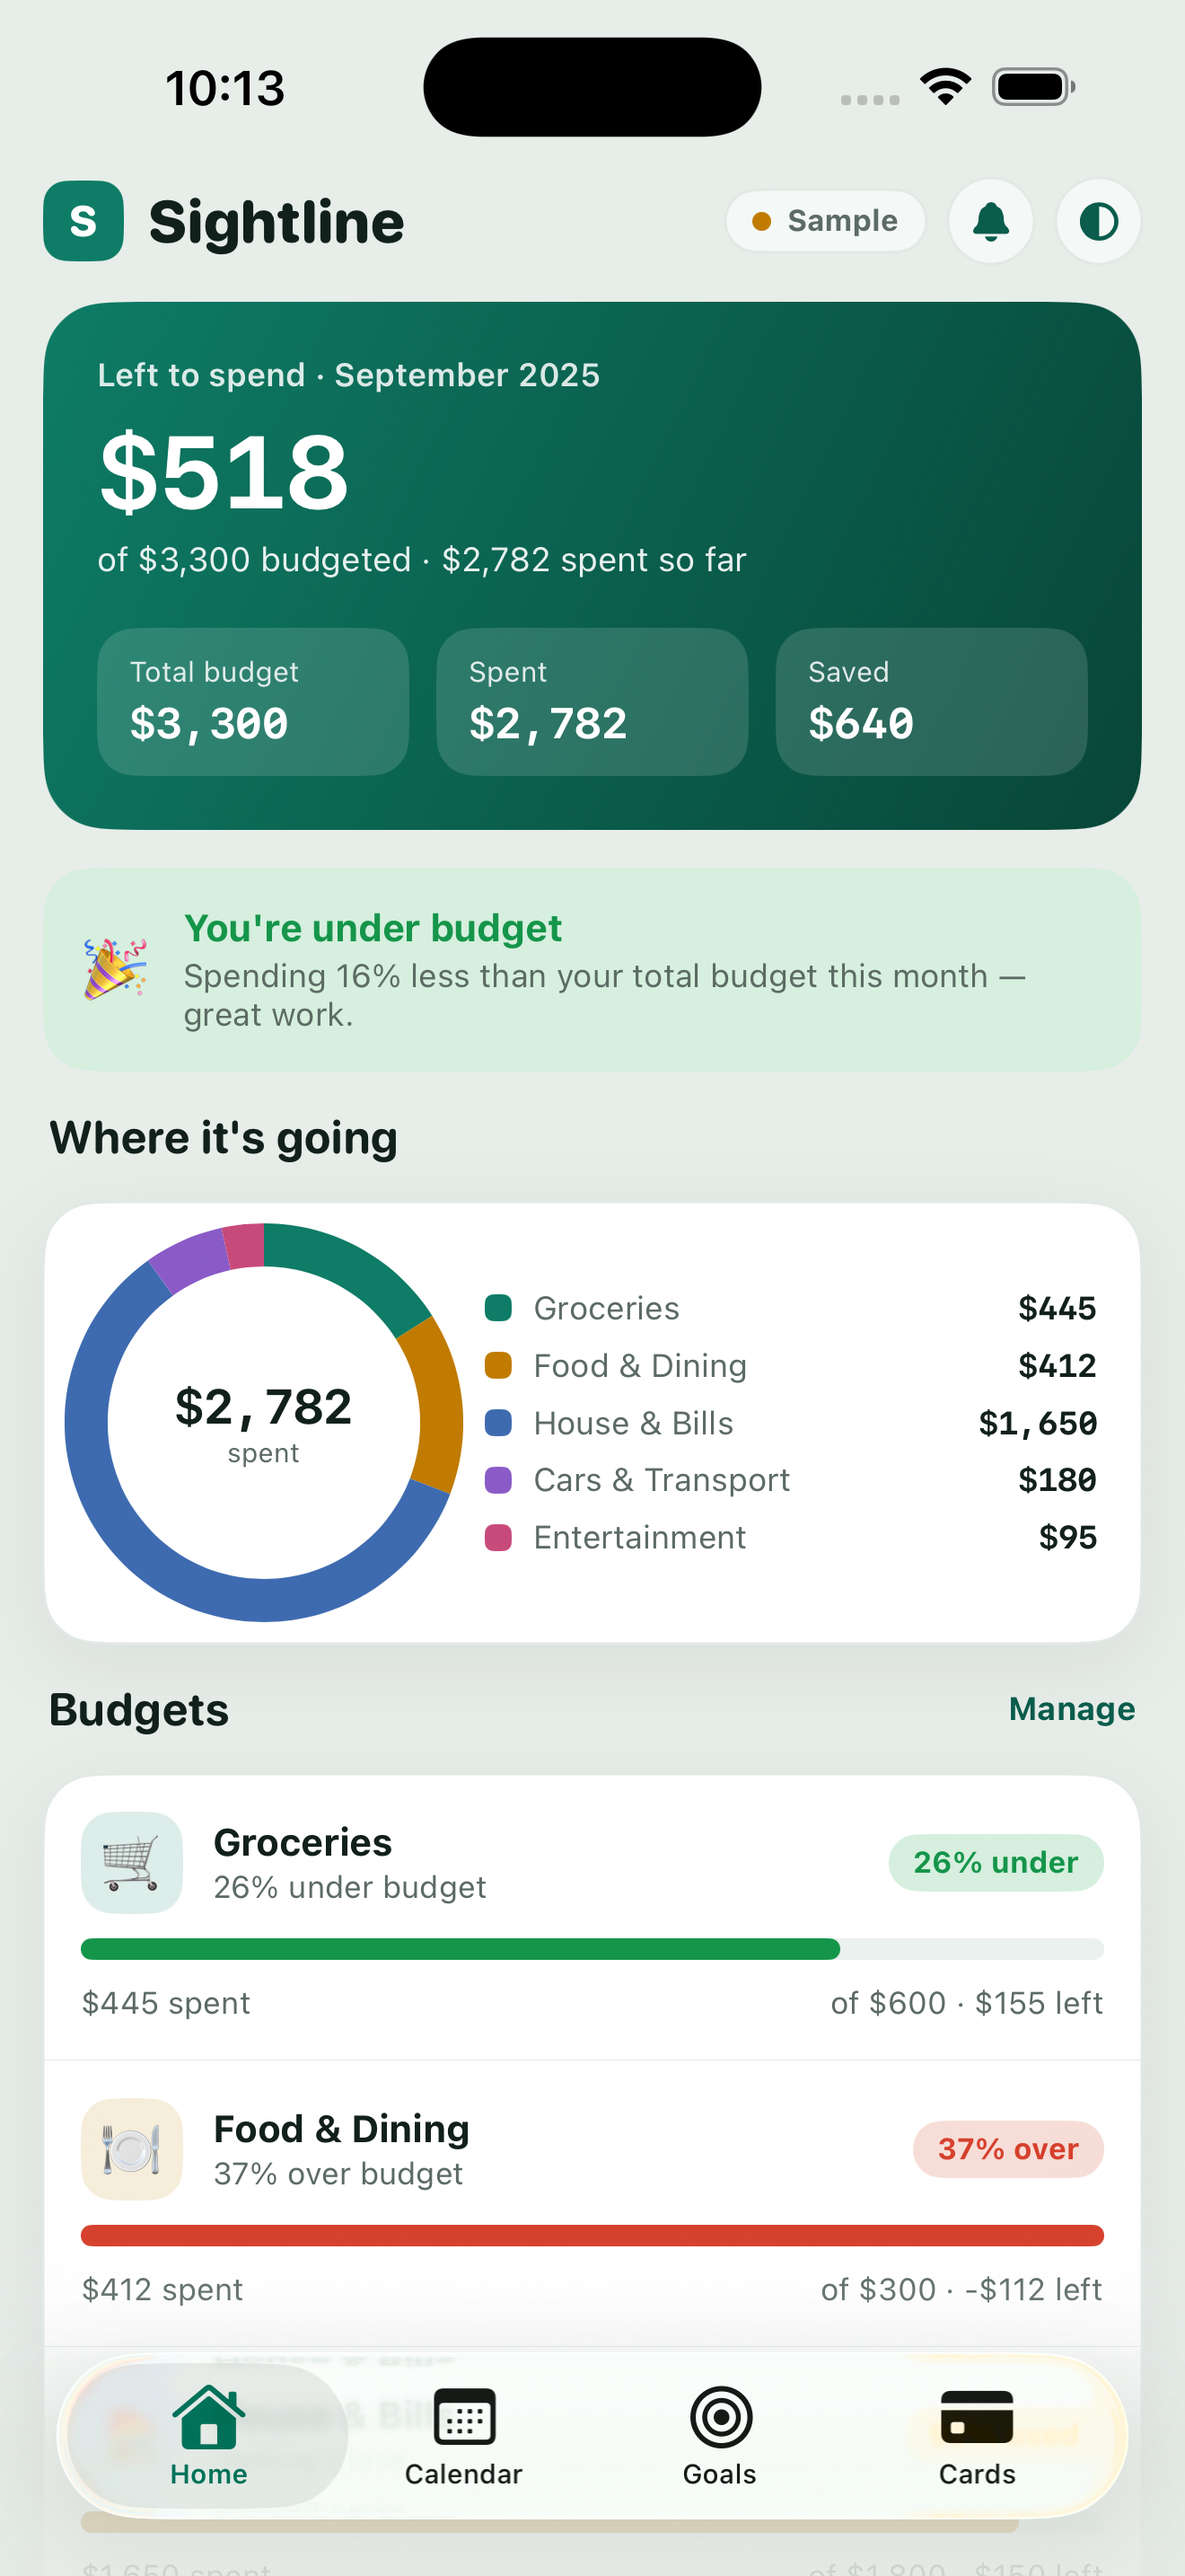
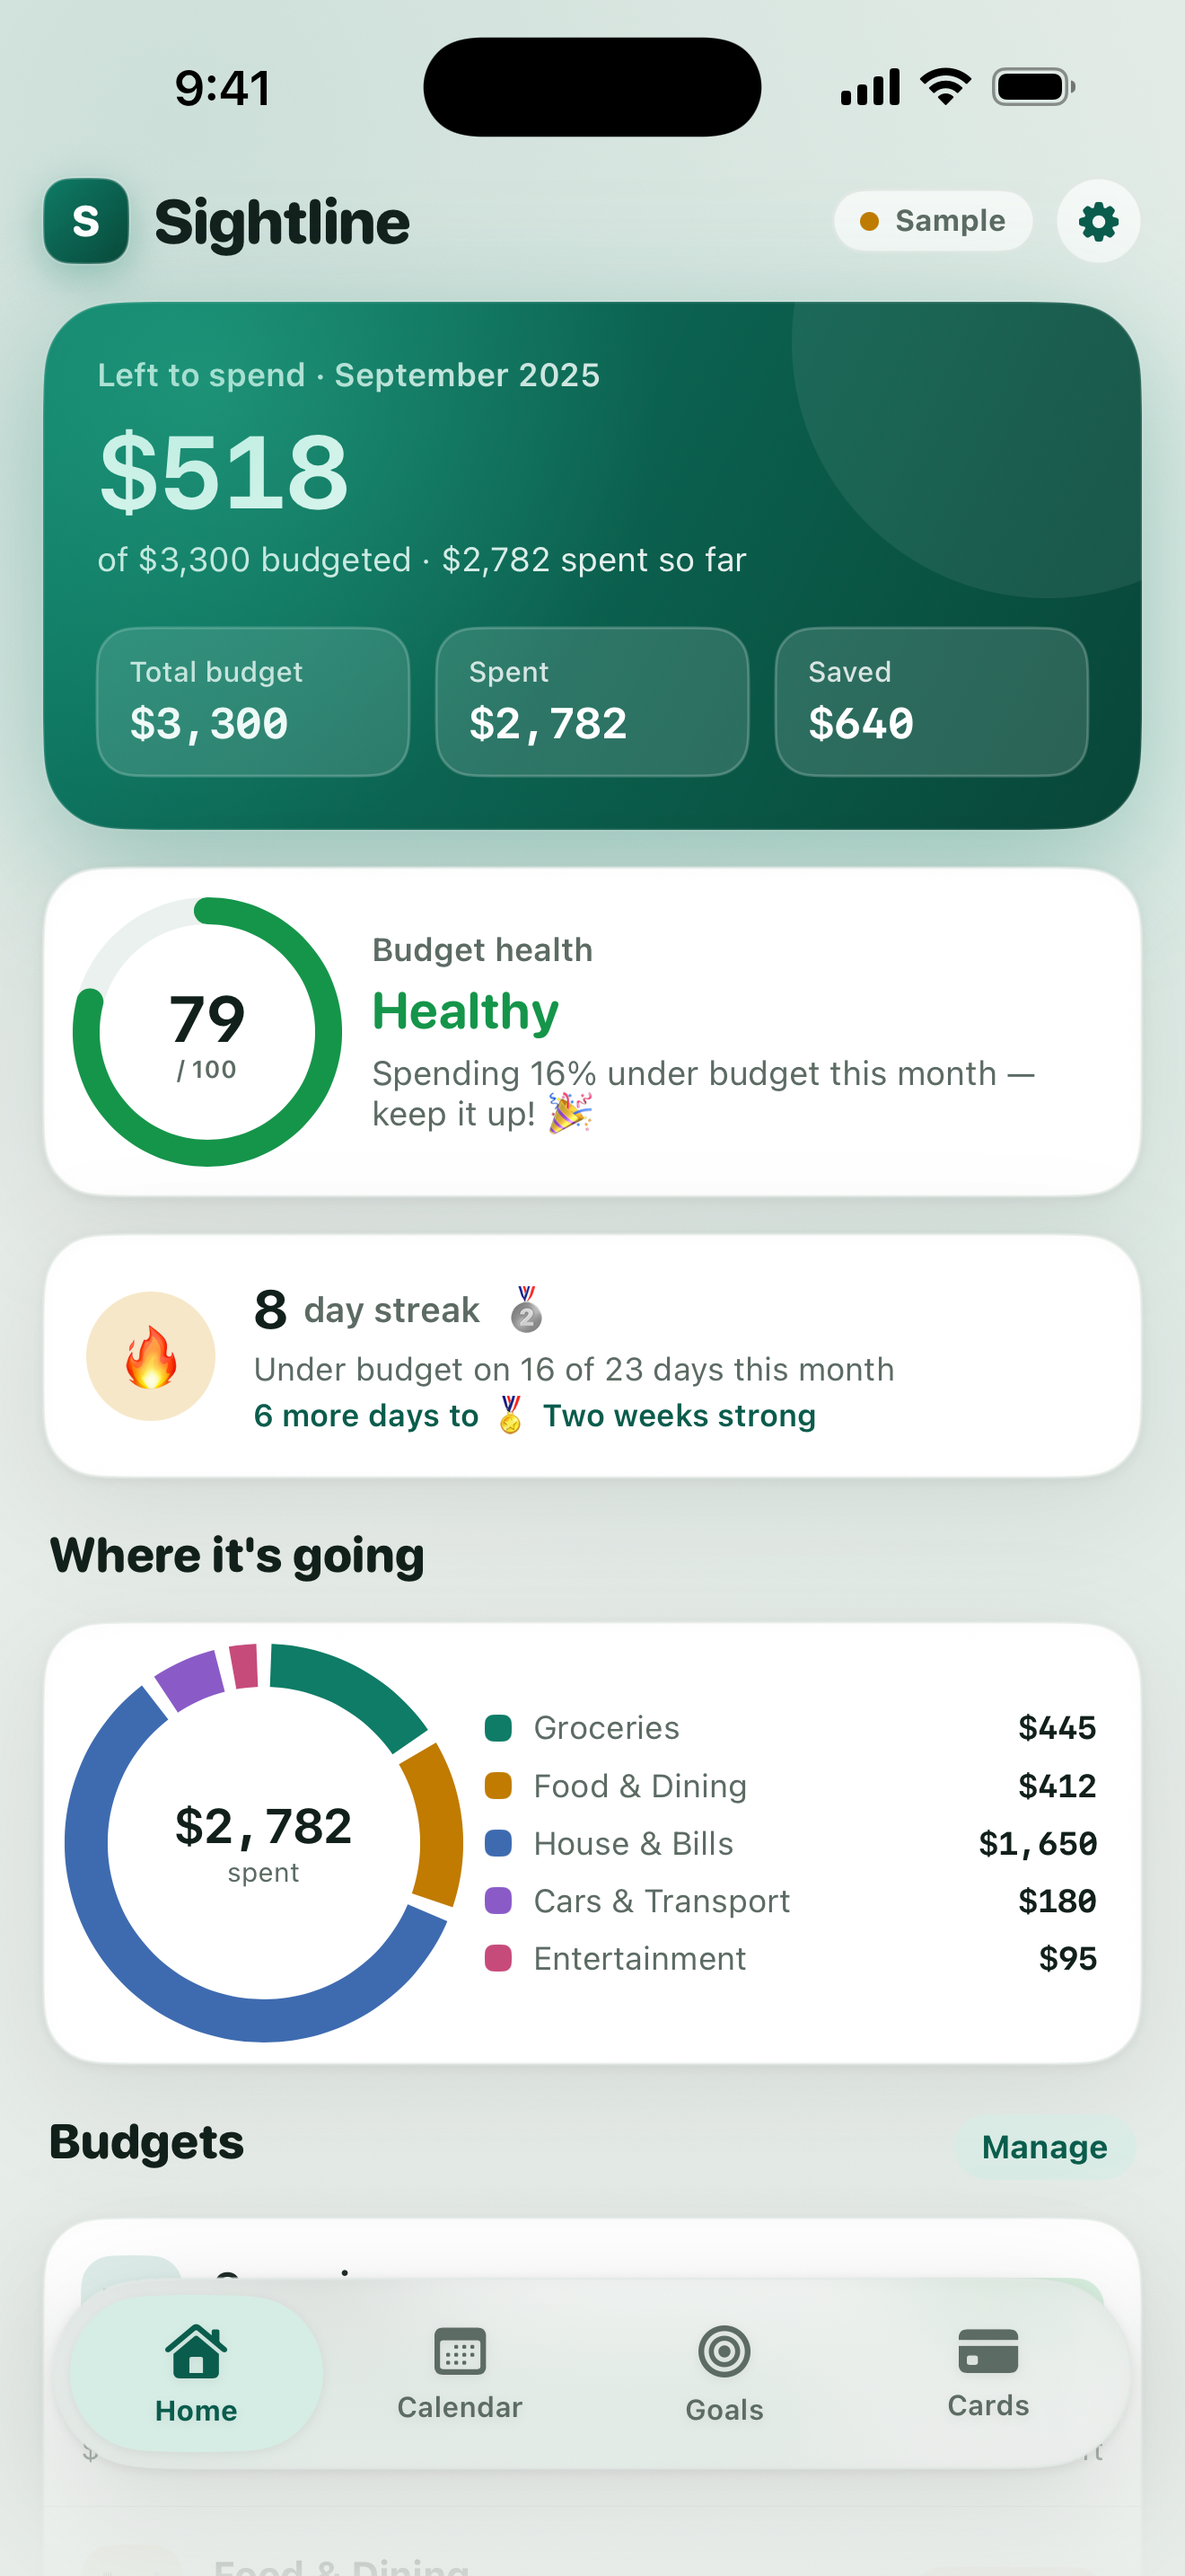
Regenerate App Store screenshots
Recaptured all 6.9" (1320x2868) shots on the iPhone 17 Pro Max simulator
with the new Settings-hub header, light mode and a 9:41 status bar.
Calendar now shows the month heatmap, and a fifth shot covers Settings.

diff --git a/docs/APP_STORE.md b/docs/APP_STORE.md
@@ -27,7 +27,7 @@ an Apple Developer account, signing, or the App Store Connect website).
    *financial info* (budgets/transactions via your server), used for app functionality, not
    tracking. Keep it consistent with `PrivacyInfo.xcprivacy`.
 5. **Screenshots** — ready-to-upload 6.9" (1320×2868) shots are in `docs/appstore/`
-   (Home, Calendar, Goals, Cards). App Store Connect also asks for a 6.5" set — generate
+   (Home, Calendar month view, Goals, Cards, Settings — light mode, 9:41 status bar). App Store Connect also asks for a 6.5" set — generate
    those from an iPhone 15 Plus / 14 Plus simulator the same way if needed.
 6. **Backend for production** — the Node proxy in `server/` must be deployed to a public
    HTTPS host (not localhost), with a **production** Basiq key and CDR accreditation via
